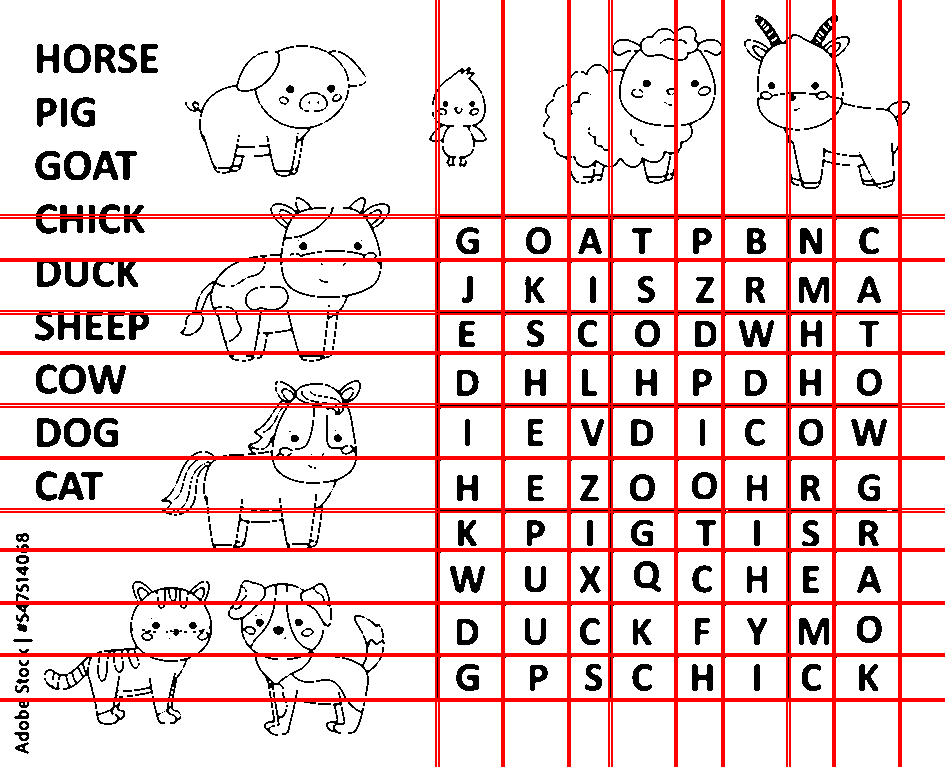
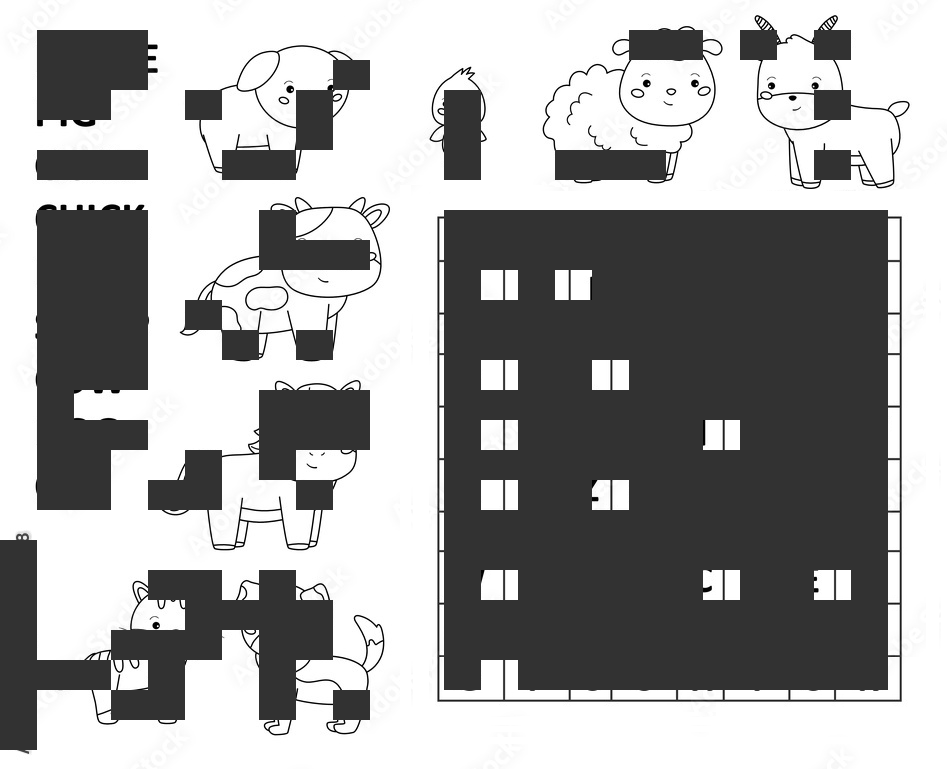
detection grille

diff --git a/Detection/GridDetection.c b/Detection/GridDetection.c
@@ -1,0 +1,215 @@
+#include <stdio.h>
+#include <stdlib.h>
+#include <math.h>
+#include <SDL2/SDL.h>
+#include <SDL2/SDL_image.h>
+#include "Detection.h"
+
+
+int sqW = 0,
+    sqH = 0,
+    sqNum = 20;
+
+
+void drawSquare(SDL_Surface* surface, int posX, int posY) {
+    
+    SDL_Rect rect = {posX, posY, sqW, sqH};
+    Uint32 color = SDL_MapRGB(surface->format, 50, 50, 50);
+    SDL_FillRect(surface, &rect, color);
+}
+
+int getPixelNum(SDL_Surface* surface, int posX, int posY) {
+
+    Uint8 r, g, b;
+    Uint32* pixels = (Uint32*)surface->pixels;
+
+    int pixelsSum = 0,
+        x = posX < 0 ? 0 : posX;
+
+    for (; x < posX + sqW; x++) {
+        if (x >= surface->w) break;
+
+        for (int y = posY < 0 ? 0 : posY; y < posY + sqH; y++) {
+            if (y >= surface->h) break;
+
+            SDL_GetRGB(pixels[y * surface->w + x], surface->format, &r, &g, &b);
+            if (r < 150 && g < 150 && b < 150) {
+                pixelsSum++;
+            }
+        }
+    }
+
+    return pixelsSum;
+}
+
+
+
+void searchCorners(SDL_Surface* surface) {
+    int x = sqNum / 2 * sqW,
+        y = sqNum / 2 * sqH,
+        pixelNum = getPixelNum(surface, x, y);
+
+    drawSquare(surface, x, y);
+    
+    int *topRight = searchTopRight(surface, x, y, pixelNum),
+        *topLeft = searchTopLeft(surface, x, y, pixelNum),
+        *bottomRight = searchBottomRight(surface, x, y, pixelNum),
+        *bottomLeft = searchBottomLeft(surface, x, y, pixelNum);
+
+    drawLineOnSurface(surface, topLeft[0], topLeft[1], topRight[0], topRight[1]);
+    drawLineOnSurface(surface, topRight[0], topRight[1], bottomRight[0], bottomRight[1]);
+    drawLineOnSurface(surface, bottomRight[0], bottomRight[1], bottomLeft[0], bottomLeft[1]);
+    drawLineOnSurface(surface, bottomLeft[0], bottomLeft[1], topLeft[0], topLeft[1]);
+}
+
+
+int* searchTopRight(SDL_Surface* surface, int x, int y, int pixels) {
+    
+    int pixelNum = 0,
+        *coords = malloc(2 * sizeof(int));
+
+    coords[0] = x;
+    coords[1] = y;
+    pixels /= 4;
+
+    if ((pixelNum = getPixelNum(surface, x + sqW, y - sqH)) > pixels) {
+        coords[0] += sqW;
+        coords[1] -= sqH;
+    }
+    else if ((pixelNum = getPixelNum(surface, x, y - sqH)) > pixels) {
+        coords[1] -= sqH;
+    }
+    else if ((pixelNum = getPixelNum(surface, x + sqW, y)) > pixels) {
+        coords[0] += sqW;
+    }
+    else {
+        coords[0] += sqW;
+        return coords;
+    }
+
+    return searchTopRight(surface, coords[0], coords[1], pixelNum);
+}
+
+
+int* searchTopLeft(SDL_Surface* surface, int x, int y, int pixels) {
+    
+    int pixelNum = 0,
+        *coords = malloc(2 * sizeof(int));
+
+    coords[0] = x;
+    coords[1] = y;
+    pixels /= 4;
+
+    if ((pixelNum = getPixelNum(surface, x - sqW, y - sqH)) > pixels) {
+        coords[0] -= sqW;
+        coords[1] -= sqH;
+    }
+    else if ((pixelNum = getPixelNum(surface, x, y - sqH)) > pixels) {
+        coords[1] -= sqH;
+    }
+    else if ((pixelNum = getPixelNum(surface, x - sqW, y)) > pixels) {
+        coords[0] -= sqW;
+    }
+    else {
+        return coords;
+    }
+
+    return searchTopLeft(surface, coords[0], coords[1], pixelNum);
+}
+
+
+int* searchBottomRight(SDL_Surface* surface, int x, int y, int pixels) {
+    
+    int pixelNum = 0,
+        *coords = malloc(2 * sizeof(int));
+
+    coords[0] = x;
+    coords[1] = y;
+    pixels /= 4;
+
+    if ((pixelNum = getPixelNum(surface, x + sqW, y + sqH)) > pixels) {
+        coords[0] += sqW;
+        coords[1] += sqH;
+    }
+    else if ((pixelNum = getPixelNum(surface, x, y + sqH)) > pixels) {
+        coords[1] += sqH;
+    }
+    else if ((pixelNum = getPixelNum(surface, x + sqW, y)) > pixels) {
+        coords[0] += sqW;
+    }
+    else {
+        coords[0] += sqW;
+        coords[1] += sqH;
+        return coords;
+    }
+
+    return searchBottomRight(surface, coords[0], coords[1], pixelNum);
+}
+
+
+int* searchBottomLeft(SDL_Surface* surface, int x, int y, int pixels) {
+    
+    int pixelNum = 0,
+        *coords = malloc(2 * sizeof(int));
+
+    coords[0] = x;
+    coords[1] = y;
+    pixels /= 4;
+
+    if ((pixelNum = getPixelNum(surface, x - sqW, y + sqH)) > pixels) {
+        coords[0] -= sqW;
+        coords[1] += sqH;
+    }
+    else if ((pixelNum = getPixelNum(surface, x, y + sqH)) > pixels) {
+        coords[1] += sqH;
+    }
+    else if ((pixelNum = getPixelNum(surface, x - sqW, y)) > pixels) {
+        coords[0] -= sqW;
+    }
+    else {
+        coords[1] += sqH;
+        return coords;
+    }
+
+    return searchBottomLeft(surface, coords[0], coords[1], pixelNum);
+}
+
+
+
+void detectGrids(char* filepath) {
+    if (filepath == NULL) {
+        puts("Filepath is undefined");
+        return;
+    }
+
+    SDL_Surface *surface = IMG_Load(filepath);
+    if (!surface) {
+        printf("Error loading image: %s\n", IMG_GetError());
+        SDL_Quit();
+        return;
+    }
+
+    int** matrix = detectEdges(surface);
+    if (matrix == NULL) {
+        puts("Error with get edges detection");
+        SDL_Quit();
+        return;
+    }
+
+    int width = surface->w,
+        height = surface->h;
+    sqW = (width - 1) / sqNum;
+    sqH = (height - 1) / sqNum;
+    
+    printf("sqW : %d  |  width : %d  |  newW : %d\n", sqW, width, sqW * sqNum);
+    printf("sqH : %d  |  heigth : %d  |  newH : %d\n", sqH, height, sqH * sqNum);
+
+    searchCorners(surface);
+
+    if (SDL_SaveBMP(surface, filepath) != 0) {
+        printf("Image saving error: %s\n", SDL_GetError());
+    }
+    else {
+        printf("Image processed successfully and saved as '%s'.\n", filepath);
+    }
+}

diff --git a/Detection/LineDetection.c b/Detection/LineDetection.c
@@ -8,7 +8,6 @@
 #include "../Rotate/rotate.h"
 
 
-
 double** getBrightness(SDL_Surface* surface) {
 
     Uint8 r, g, b;
@@ -58,7 +57,10 @@ int** detectEdges(SDL_Surface* surface) {
 
 void detectLines(char* filepath) {
 
-    if (filepath == NULL) return;
+    if (filepath == NULL) {
+        puts("Filepath is undefined");
+        return;
+    }
 
     SDL_Surface *surface = IMG_Load(filepath);
     if (!surface) {
@@ -68,9 +70,8 @@ void detectLines(char* filepath) {
     }
 
     int** matrix = detectEdges(surface);
-
     if (matrix == NULL) {
-        puts("Problem with get edges detection");
+        puts("Error with get edges detection");
         SDL_Quit();
         return;
     }
@@ -124,6 +125,7 @@ void detectLines(char* filepath) {
         }
     }
 
+
     if ((int)angle % 90 != 0) {
         if (angle > 90) {
             rotate(filepath, 90 - angle);
@@ -132,7 +134,6 @@ void detectLines(char* filepath) {
             rotate(filepath, -angle);
         }
     }
-    
 
     for (int rho = 0; rho < size * 2; rho++) {
         free(accumulatorArray[rho]);

diff --git a/Detection/DrawLine.c b/Detection/DrawLine.c
@@ -4,7 +4,7 @@
 #include "Detection.h"
 
 
-void drawLine(SDL_Surface* surface, double rho, double theta, int h, int w) {
+void drawPolarLine(SDL_Surface* surface, double rho, double theta, int h, int w) {
 
     double x1, y1, x2, y2;
 
@@ -62,7 +62,7 @@ void drawLineOnSurface(SDL_Surface *surface, int x1, int y1, int x2, int y2) {
     int err = dx - dy;
 
     while (x1 != x2 || y1 != y2) {
-        put_pixel(surface, x1, y1);
+        putPixel(surface, x1, y1);
         
         int e2 = err * 2;
         if (e2 > -dy) {
@@ -76,7 +76,7 @@ void drawLineOnSurface(SDL_Surface *surface, int x1, int y1, int x2, int y2) {
     }
 }
 
-void put_pixel(SDL_Surface *surface, int x, int y) {
+void putPixel(SDL_Surface *surface, int x, int y) {
     if (x >= 0 && x < surface->w && y >= 0 && y < surface->h) {
         Uint32* pixels = (Uint32*)surface->pixels;
         pixels[y * surface->w + x] = SDL_MapRGB(surface->format, 255, 0, 0);

diff --git a/Detection/Detection.h b/Detection/Detection.h
@@ -3,13 +3,18 @@
 
 #include <SDL2/SDL.h>
 
+void detectGrids(char* filepath);
 void detectLines(char* filepath);
 double** getBrightness(SDL_Surface* surface);
 int** detectEdges(SDL_Surface* surface);
+int* searchTopRight(SDL_Surface* surface, int x, int y, int sqPixels);
+int* searchTopLeft(SDL_Surface* surface, int x, int y, int pixels);
+int* searchBottomRight(SDL_Surface* surface, int x, int y, int pixels);
+int* searchBottomLeft(SDL_Surface* surface, int x, int y, int pixels);
 
-void drawLine(SDL_Surface* surface, double rho, double theta, int h, int w);
+void drawPolarLine(SDL_Surface* surface, double rho, double theta, int h, int w);
 void drawLineOnSurface(SDL_Surface *surface, int x1, int y1, int x2, int y2);
-void put_pixel(SDL_Surface *surface, int x, int y);
+void putPixel(SDL_Surface *surface, int x, int y);
 
 void detection(char* filepath);
 

diff --git a/Detection/Detection.c b/Detection/Detection.c
@@ -6,5 +6,6 @@
 #include "Detection.h"
 
 void detection(char* filepath) {
-    detectLines(filepath);
+    detectLines(filepath); //rota auto
+    detectGrids(filepath);
 }
